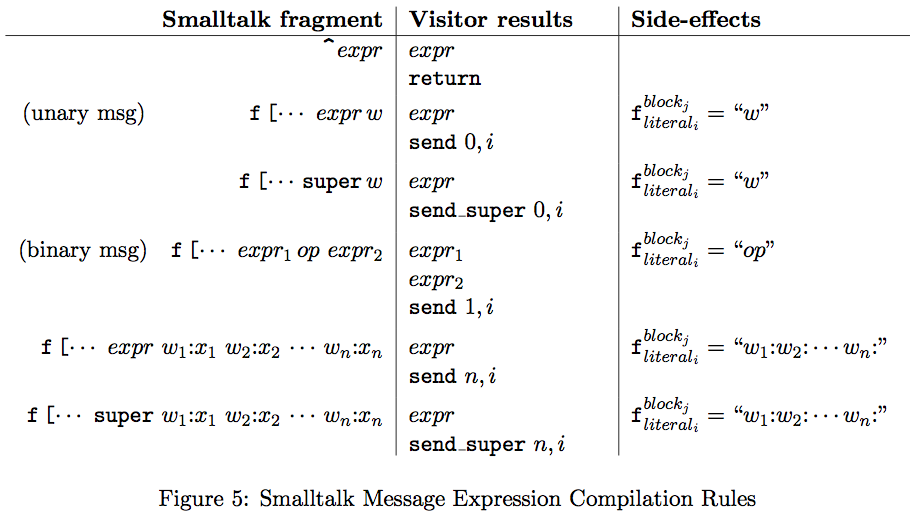
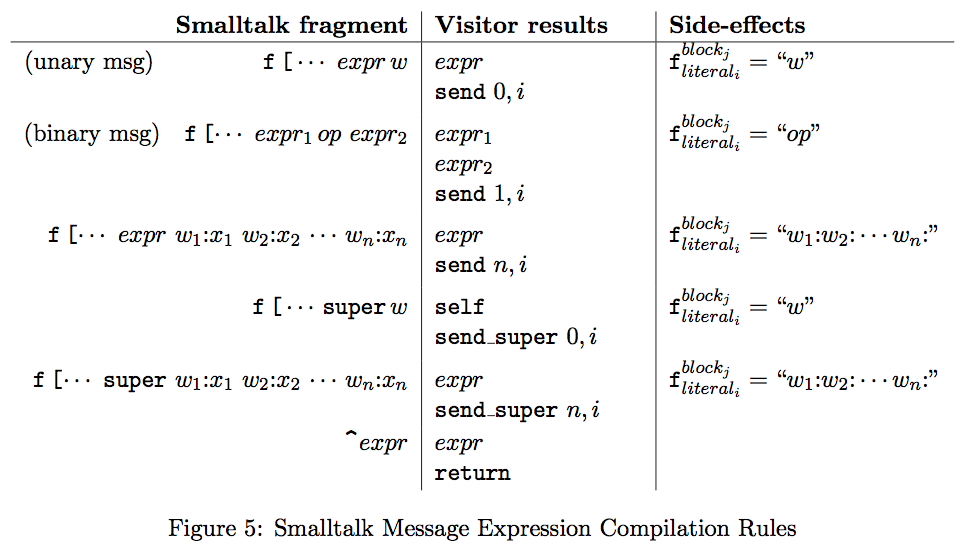
update rules

diff --git a/projects/bytecode.tex b/projects/bytecode.tex
@@ -184,10 +184,13 @@ $main$  &
 \begin{minipage}[t]{0.25\linewidth}
 $main$\\
 {\tt self\\
-return}
+return}\vspace{5pt}
 \end{minipage} & \\
 
-{\tt f <primitive:\#}{\it primitive-name}{\tt >} & $\epsilon$ & \\
+{\tt f <primitive:\#}{\it primitive-name}{\tt >} &
+\begin{minipage}[t]{0.35\linewidth}
+$\epsilon$ \vspace{7pt}
+\end{minipage} &  \\
 
 {\tt f [ } {\tt ]} & $\epsilon$&
 \begin{minipage}[t]{0.35\linewidth}
@@ -264,7 +267,7 @@ $expr_n$\vspace{5pt}
 \begin{tabular}[t]{r | l | l }
 {\bf Smalltalk fragment} & {\bf Visitor method result} & {\bf Side-effects}\\
 \hline
-${\tt class~ T~[|}x_0 x_1 ..\, x_n|\cdots [ \cdots~ x_i {\tt :=} \,expr$ &
+${\tt class~ T~[|}x_0 x_1 ..\, x_n|\cdots {\tt f} \,[\, \cdots~ x_i {\tt :=} \,expr$ &
 \begin{minipage}[t]{0.25\linewidth}
 $expr$\\
 {\tt store\_field} $i$\vspace{5pt}
@@ -276,29 +279,37 @@ $expr$\\
 {\tt store\_local} $0, i$\vspace{3pt}
 \end{minipage} & \\
 
-${\tt f~[|}x_0 ..\, x_n| \cdots~ x {\tt :=} \,expr$ &
+${\tt f~[|}x_0 ..\, x_n| \cdots~ x_i {\tt :=} \,expr$ &
 \begin{minipage}[t]{0.25\linewidth}
 $expr$\\
 {\tt store\_local} $0, i$\vspace{3pt}
 \end{minipage} & \\
 
-${\tt f~[|}x_0 ..\, x_n| \cdots~ x {\tt :=} \,expr$ &
+${\tt f~[\, \cdots~ [|}x_0 ..\, x_n| \cdots~ x_i {\tt :=} \,expr$ &
 \begin{minipage}[t]{0.25\linewidth}
 $expr$\\
 {\tt store\_local} $0, i$\vspace{3pt}
 \end{minipage} & \\
 
-$\text{\tt f [}\cdots\underbrace{{\tt [|x| }\cdots [}_{\Delta}\cdots~ x {\tt :=} \,expr$ &
+$\underbrace{\text{\tt f:}{\tt x~}{\tt [}\cdots [}_{\Delta \,=\,\#scopes} \cdots\, x_i {\tt :=}\, expr$ &
 \begin{minipage}[t]{0.25\linewidth}
-$expr$\\
 {\tt store\_local} $\Delta, 0$
 \end{minipage} & \\
 
-${\tt class~ T~[|}x_0 x_1 ..\, x_n|\cdots [ \cdots~ x_i$ & {\tt push\_field} $i$ \\
+$\text{\tt f [}\cdots\underbrace{{\tt [|x| }\cdots [}_{\Delta}\cdots~ x_i {\tt :=} \,expr$ &
+\begin{minipage}[t]{0.25\linewidth}
+$expr$\\
+{\tt store\_local} $\Delta, 0$\vspace{5pt}
+\end{minipage} & \\
+
+${\tt class~ T~[|}x_0 x_1 ..\, x_n|\cdots {\tt f}\, [\, \cdots~ x_i$ & 
+\begin{minipage}[t]{0.25\linewidth}
+{\tt push\_field} $i$ \vspace{5pt}
+\end{minipage} & \\
 
 $\text{\tt a:}x_0 \,\,\text{\tt b:}x_1~{\tt [|}x_2 ..\, x_n |\cdots~ x_i$ &
 \begin{minipage}[t]{0.25\linewidth}
-{\tt push\_local} $0, i$
+{\tt push\_local} $0, i$\vspace{5pt}
 \end{minipage} & \\
 
 $\underbrace{\text{\tt f:}{\tt x~}{\tt [}\cdots [}_{\Delta \,=\,\#scopes} \cdots\, {\tt x}$ &
@@ -352,23 +363,10 @@ $expr_n$\\
 \begin{tabular}[t]{r | l | l }
 {\bf Smalltalk fragment} & {\bf Visitor results} & {\bf Side-effects}\\
 \hline
-
-{\tt\Large \verb=^=}$expr$ &
-\begin{minipage}[t]{0.2\linewidth}
-$expr$\\
-{\tt return}\vspace{5pt}
-\end{minipage} & \\
-
-(unary msg)~~~~~~~~~~~~\, {\tt f\,[}$\cdots ~expr \,w$ &
+(unary msg)~~~~~~~~~~~~\, {\tt f\,[}\,$\cdots ~expr \,w$ &
 \begin{minipage}[t]{0.2\linewidth}
 $expr$\\
 {\tt send} $0,i$\vspace{5pt}
-\end{minipage}  & $\text{\tt f}^{block_j}_{literal_i} = ``w$'' \\
-
-{\tt f\,[}$\cdots \,{\tt super} \,w$ &
-\begin{minipage}[t]{0.2\linewidth}
-$expr$\\
-{\tt send\_super} $0,i$\vspace{5pt}
 \end{minipage}  & $\text{\tt f}^{block_j}_{literal_i} = ``w$'' \\
 
 (binary msg)~~~{\tt f\,[}$\cdots ~expr_1\, op~ expr_2$ &
@@ -384,11 +382,23 @@ $expr$\\
 {\tt send} $n,i$\vspace{5pt}
 \end{minipage}  & $\text{\tt f}^{block_j}_{literal_i} = ``w_1{\tt :}w_2{\tt :}\cdots w_n{\tt :}$'' \\
 
+{\tt f\,[}$\,\cdots \,{\tt super} \,w$ &
+\begin{minipage}[t]{0.2\linewidth}
+{\tt self}\\
+{\tt send\_super} $0,i$\vspace{5pt}
+\end{minipage}  & $\text{\tt f}^{block_j}_{literal_i} = ``w$'' \\
+
 {\tt f\,[}$\cdots ~{\tt super} ~w_1{\tt :} x_1 ~ w_2{\tt :} x_2 \, \cdots \, w_n{\tt :} x_n$ &
 \begin{minipage}[t]{0.2\linewidth}
 $expr$\\
-{\tt send\_super} $n,i$
-\end{minipage}  & $\text{\tt f}^{block_j}_{literal_i} = ``w_1{\tt :}w_2{\tt :}\cdots w_n{\tt :}$'' \vspace{3pt}\\
+{\tt send\_super} $n,i$\vspace{3pt}
+\end{minipage}  & $\text{\tt f}^{block_j}_{literal_i} = ``w_1{\tt :}w_2{\tt :}\cdots w_n{\tt :}$''\\
+
+{\tt\Large \verb=^=}$expr$ &
+\begin{minipage}[t]{0.2\linewidth}
+$expr$\\
+{\tt return}\vspace{5pt}
+\end{minipage} & \\
 
 \end{tabular}
 \end{center}
